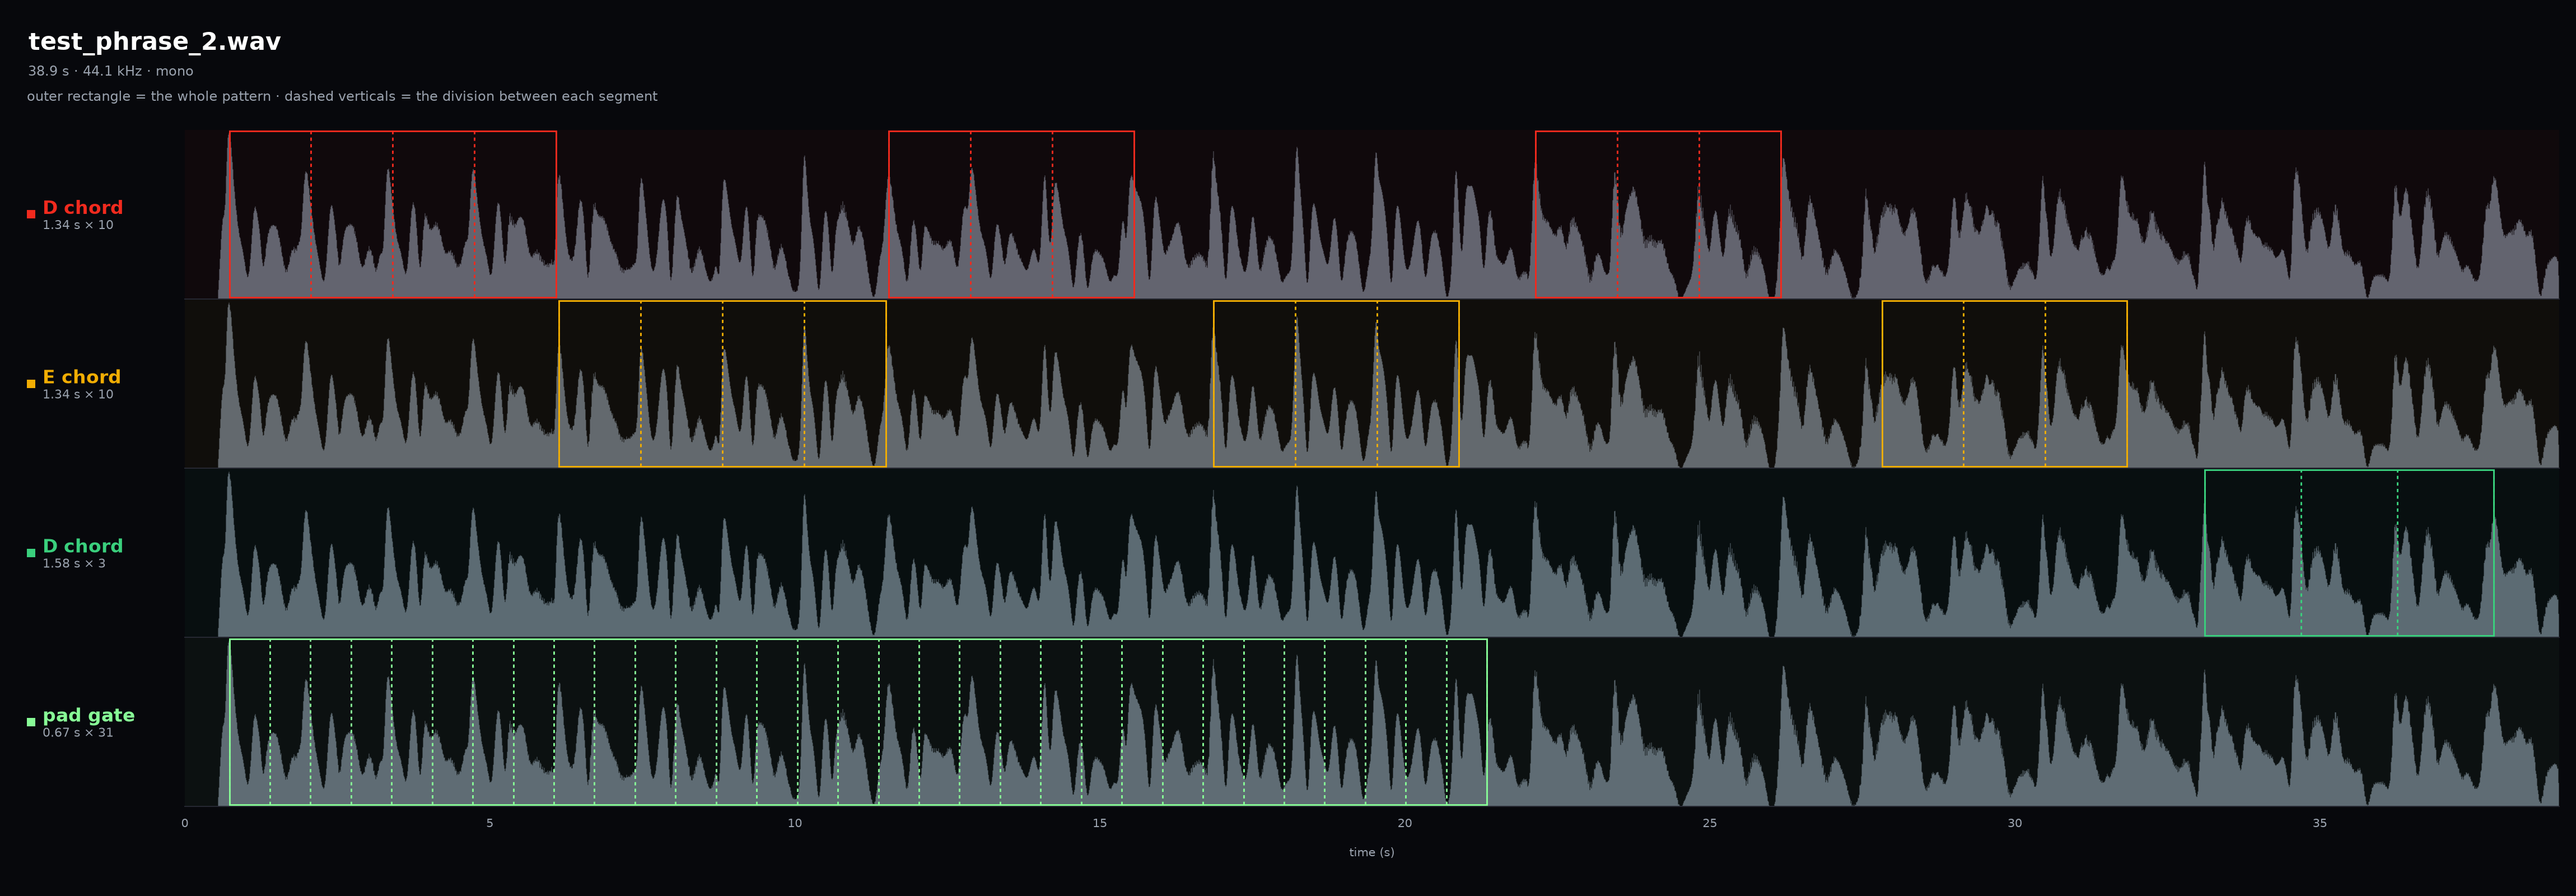
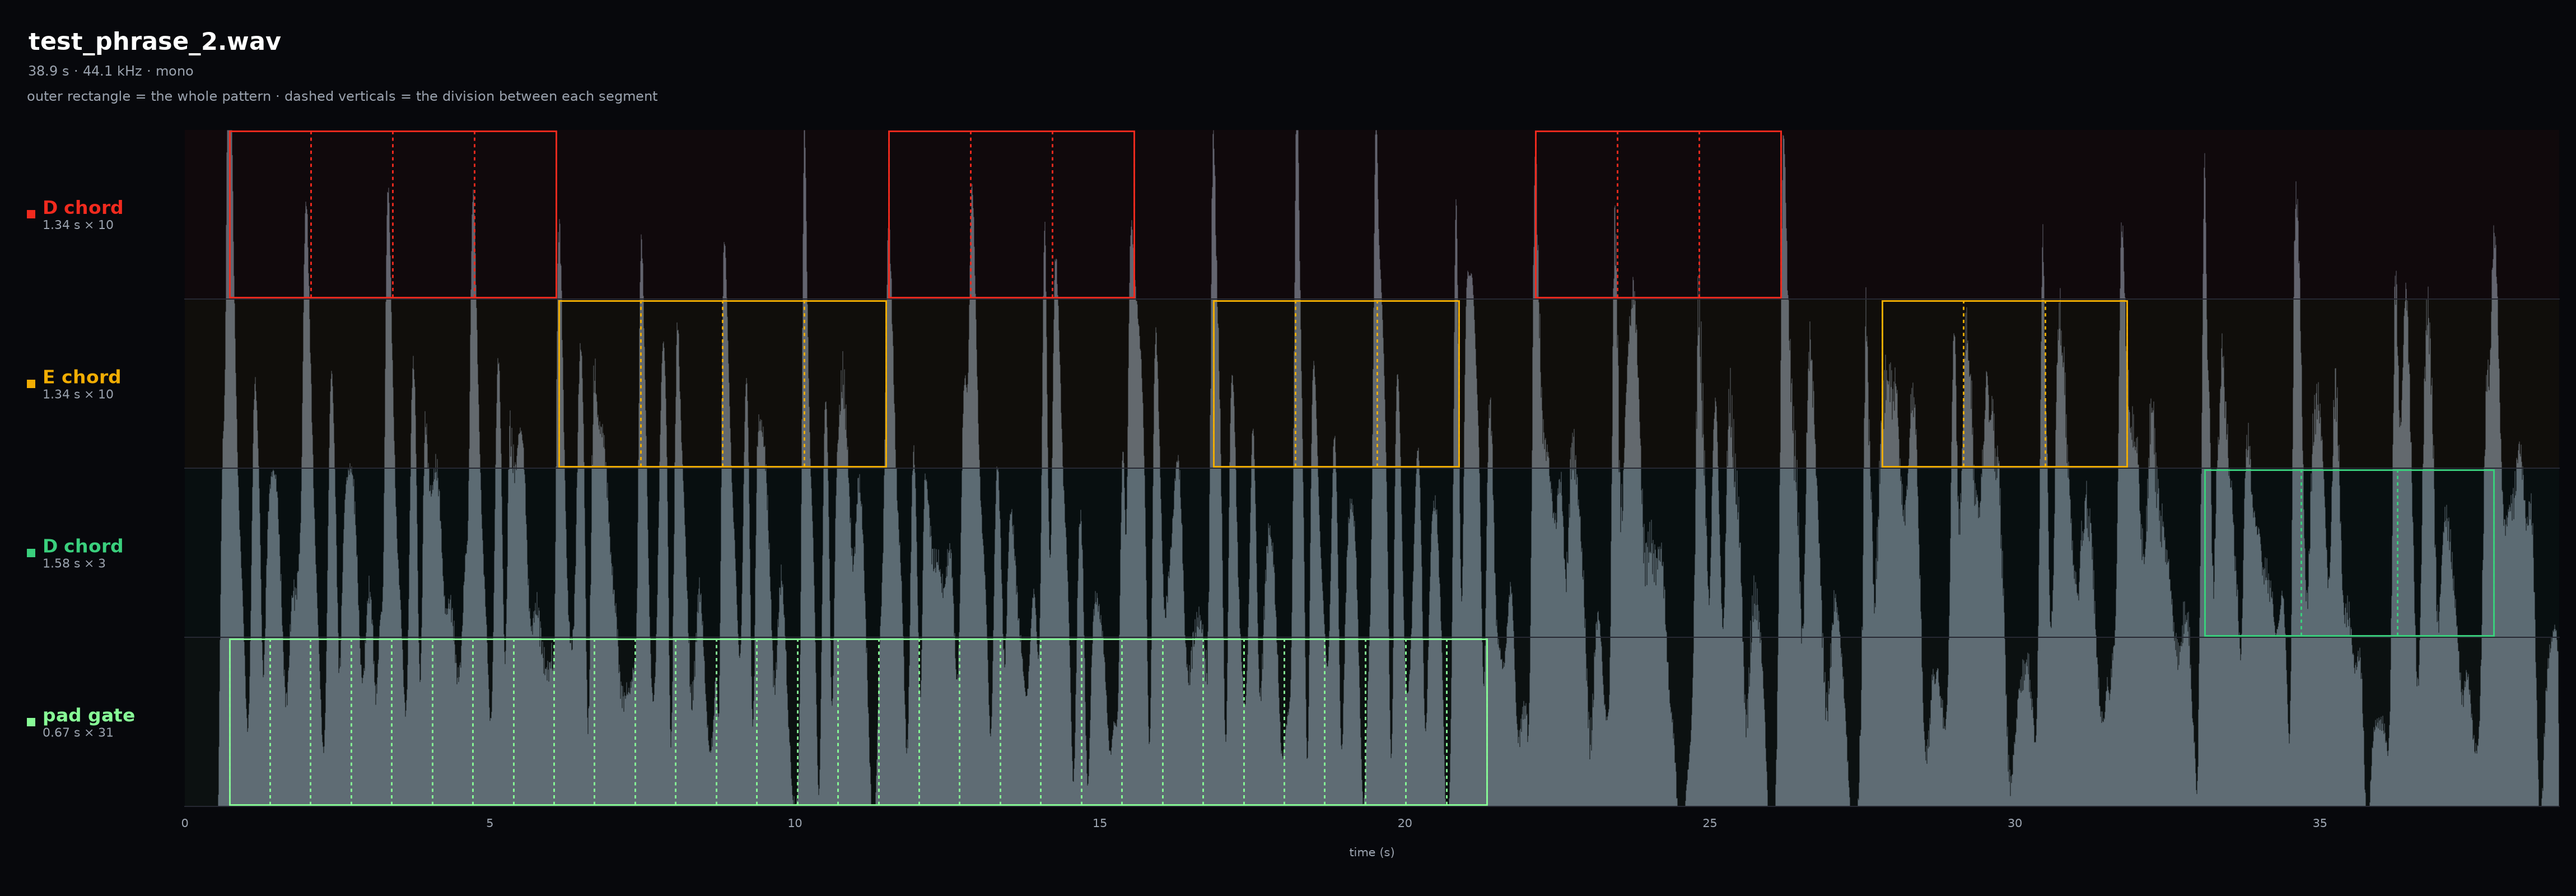
Draw the diagram waveform once across all four rows
Each row carried its own copy of the envelope scaled into its own band, which
read as four separate waveforms instead of the single running waveform the
diagram is meant to show behind the patterns. The rows now draw only their
boxes over one shared trace that spans the full plot height.

🤖 Generated with Codebuff

diff --git a/skills/analyze-palettes/calibration_tests/diagram_template.py b/skills/analyze-palettes/calibration_tests/diagram_template.py
@@ -16,23 +16,33 @@ W, H, DPI = 4600, 1600, 200
 LEFT, RIGHT, TOP, BOTTOM = 330, 4570, 232, 1439
 BG, WAVE, MUTED, RULE = "#07080c", "#5e6773", "#9aa2ae", "#262832"
 
-# name, color, band top/bottom (px), pattern start, loop, (index, segments) spans,
-# envelope range mapped onto the row, and the edge the trace grows from
+# name, color, band top/bottom (px), pattern start, loop, (index, segments) spans
 ROWS = {
     "test_phrase_1": [
-        ("bass", "#f12a1e", (232, 533), 0.0, 1.074910, [(0, 73)], (0.543, 1.135), "bottom"),
-        ("cymbal", "#f1ad03", (535, 835), 2.158, 2.149700, [(0, 35)], (0.006, 0.673), "bottom"),
-        ("kick", "#3ad07d", (837, 1137), 2.158, 2.149700, [(0, 35)], (0.001, 0.695), "top"),
-        ("kick", "#87fa96", (1139, 1439), 2.158, 2.149700, [(0, 6), (17, 5)], (0.514, 1.143), "top"),
+        ("bass", "#f12a1e", (232, 533), 0.0, 1.074910, [(0, 73)]),
+        ("cymbal", "#f1ad03", (535, 835), 2.158, 2.149700, [(0, 35)]),
+        ("kick", "#3ad07d", (837, 1137), 2.158, 2.149700, [(0, 35)]),
+        ("kick", "#87fa96", (1139, 1439), 2.158, 2.149700, [(0, 6), (17, 5)]),
     ],
     "test_phrase_2": [
         ("D chord", "#f12a1e", (232, 533), (0.73, 11.54, 22.14), 1.340,
-         [(0, 4), (0, 3), (0, 3)], (0.10, 0.60), "bottom"),
+         [(0, 4), (0, 3), (0, 3)]),
         ("E chord", "#f1ad03", (535, 835), (6.13, 16.86, 27.82), 1.340,
-         [(0, 4), (0, 3), (0, 3)], (0.10, 0.60), "bottom"),
-        ("D chord", "#3ad07d", (837, 1137), (33.11,), 1.580, [(0, 3)], (0.10, 0.60), "bottom"),
-        ("pad gate", "#87fa96", (1139, 1439), (0.73,), 0.665, [(0, 31)], (0.10, 0.60), "bottom"),
+         [(0, 4), (0, 3), (0, 3)]),
+        ("D chord", "#3ad07d", (837, 1137), (33.11,), 1.580, [(0, 3)]),
+        ("pad gate", "#87fa96", (1139, 1439), (0.73,), 0.665, [(0, 31)]),
     ],
+}
+
+# bands the single waveform is drawn in: top/bottom px, envelope range, edge it grows from
+WAVES = {
+    "test_phrase_1": [
+        (232, 533, 0.543, 1.135, "bottom"),
+        (535, 835, 0.006, 0.673, "bottom"),
+        (837, 1137, 0.001, 0.695, "top"),
+        (1139, 1439, 0.514, 1.143, "top"),
+    ],
+    "test_phrase_2": [(232, 1439, 0.12, 0.52, "bottom")],
 }
 
 TRACE = {"test_phrase_1": "peak", "test_phrase_2": "rms"}
@@ -71,14 +81,16 @@ def main(name):
     edges = np.linspace(0, duration, RIGHT - LEFT + 1)
     env = env_at(sr, x, edges, TRACE[name])
 
-    for row in ROWS[name]:
-        name_lbl, color, (top, bottom), row_start, loop, spans, (lo, hi), anchor = row
-        starts = tuple(row_start) if isinstance(row_start, tuple) else (row_start,) * len(spans)
-        total = sum(c for _, c in spans)
+    for top, bottom, lo, hi, anchor in WAVES[name]:
         level = np.clip((env - lo) / (hi - lo), 0, 1) * (bottom - top) / (BOTTOM - TOP)
         base = y(bottom) if anchor == "bottom" else y(top)
         ax.fill_between(edges[:-1], base, base + level if anchor == "bottom" else base - level,
                         step="post", color=WAVE, lw=0, zorder=0)
+
+    for row in ROWS[name]:
+        name_lbl, color, (top, bottom), row_start, loop, spans = row
+        starts = tuple(row_start) if isinstance(row_start, tuple) else (row_start,) * len(spans)
+        total = sum(c for _, c in spans)
         ax.add_patch(Rectangle((0, y(bottom)), duration, y(top) - y(bottom),
                                facecolor=color, alpha=0.04, edgecolor="none", zorder=1))
 
